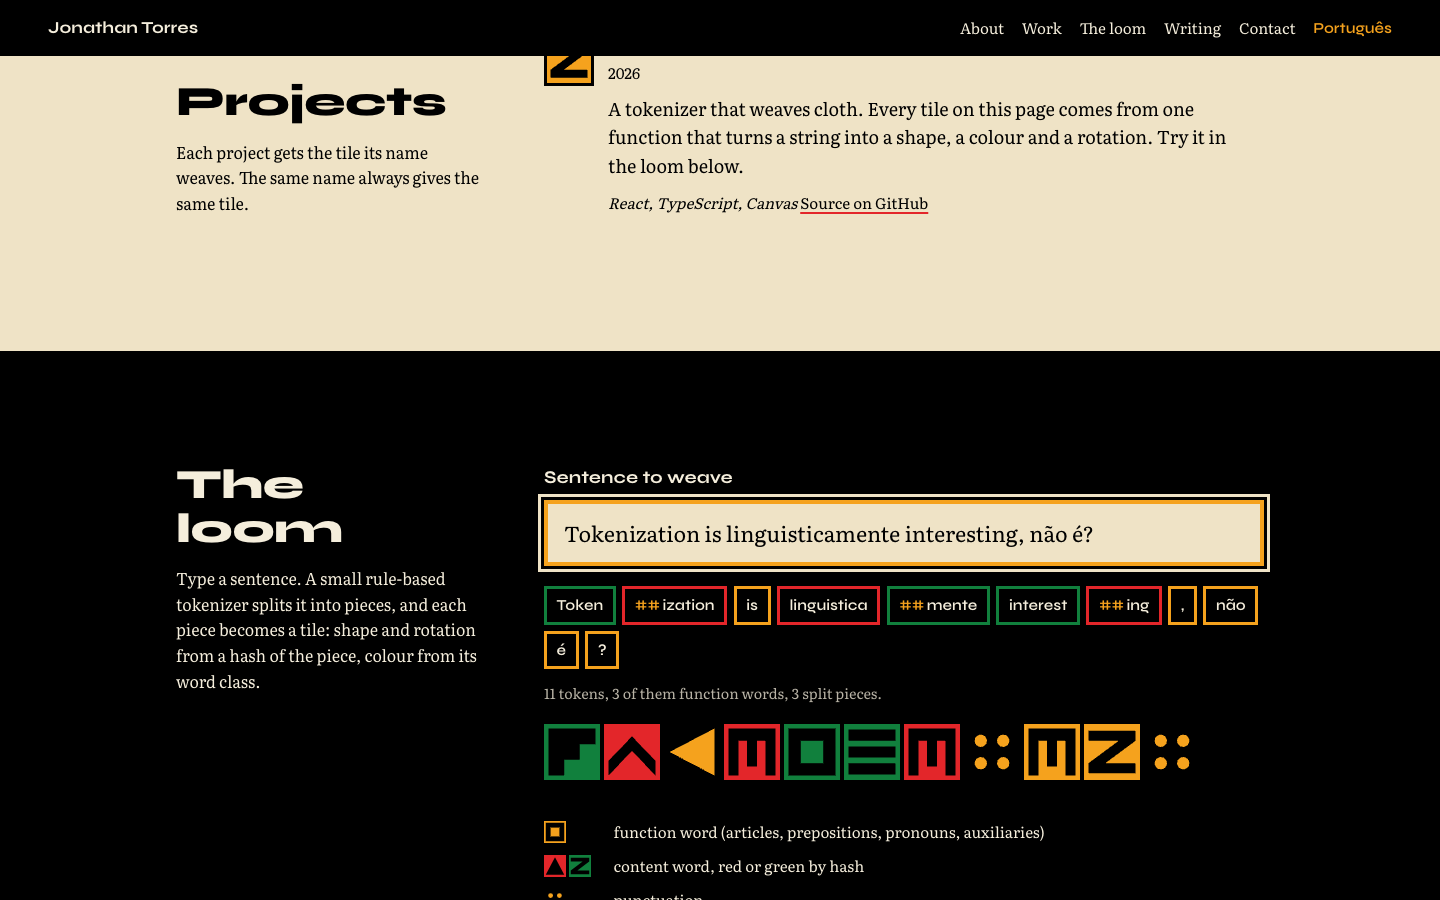
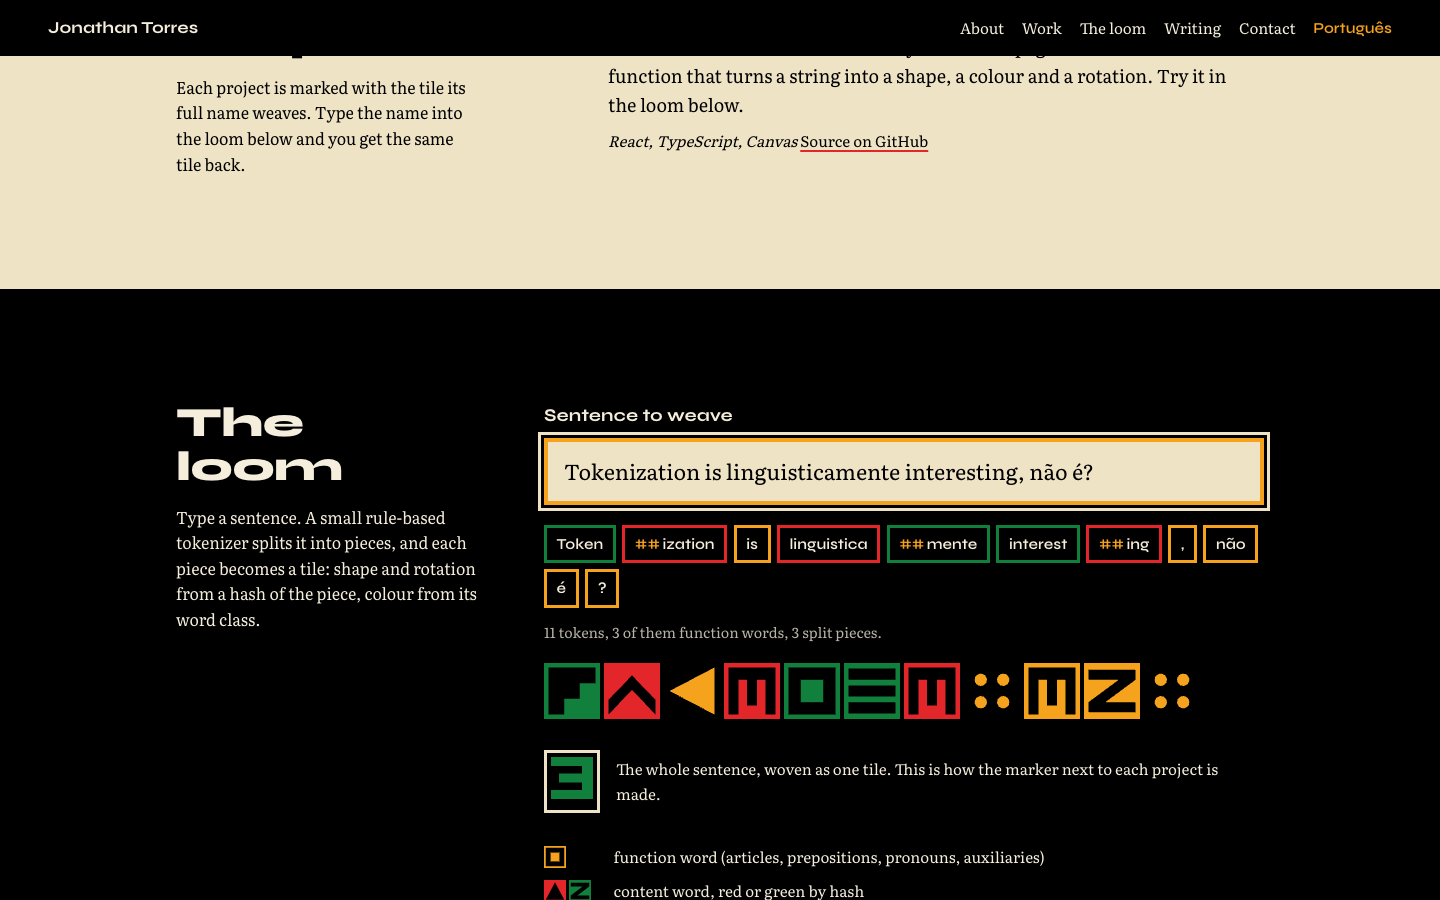
fix: review round one
- Photo: keep the PNG's transparency and frame it as a circle instead of a
  square with white corners.
- Strip: measure the row and weave enough tiles to fill any width.
- Job markers take the chart's lane colour (red industry, green research,
  gold teaching); only the shape comes from the name.
- The loom shows the whole sentence woven as one tile, which is how project
  markers are made, so typing a project name gives its marker back.
- Copy: drop the chart caption, add the NLP concentration to the bachelor's,
  rename the Slyng project and describe it as a pipeline of AI agents,
  rewrite the "what I bring" paragraph without the announcement colon,
  add jiu-jitsu next to the cat.

diff --git a/src/content/pt.ts b/src/content/pt.ts
@@ -34,8 +34,8 @@ export const pt: Content = {
     paragraphs: [
       'Passei dez anos estudando como as pessoas querem dizer as coisas: semântica formal, pragmática e o jeito como crianças que aprendem português descobrem o que o "ou" implica. Depois fui construir os sistemas que precisam lidar com tudo isso em escala.',
       'Desde 2023 trabalho com pipelines de LLM de ponta a ponta: desenho de prompts, avaliação, monitoramento, deploy e as ferramentas de revisão humana em volta deles. Na Slyng fui o primeiro contratado e construí um pipeline de monitoramento de atendimento que cortou o custo de cada análise em 77%. Na Brick Abode construí um pipeline que escreve testes unitários para linguagens procedurais do PostgreSQL. Hoje sou linguista computacional e engenheiro de PLN na Clarice.ai.',
-      'O que eu trago que a maioria dos engenheiros não traz: consigo dizer por que a saída de um modelo está errada em termos linguísticos e transformar isso numa avaliação. O que eu trago que a maioria dos linguistas não traz: eu entrego.',
-      'Fora do expediente, cozinho. E sou supervisionado por um gato preto.',
+      'A maioria dos engenheiros não consegue dizer por que a saída de um modelo está errada em termos linguísticos, muito menos transformar isso numa avaliação. Eu consigo. A maioria dos linguistas para na teoria. Eu não paro, porque também sou engenheiro, e a análise vira produto rodando.',
+      'Fora do expediente, cozinho, treino jiu-jitsu e sou supervisionado por um gato preto que, ao contrário de mim, nunca bateu.',
     ],
     photoAlt: 'Jonathan Torres, olhando para a câmera, de barba curta.',
     languagesHeading: 'Línguas que falo',
@@ -50,7 +50,7 @@ export const pt: Content = {
   },
   work: {
     heading: 'Trabalho',
-    lead: 'Dez anos de linguística, depois engenharia. As barras mostram onde cada uma começa.',
+    lead: 'Dez anos de linguística, depois engenharia.',
     laneLabels: { industry: 'Indústria', research: 'Pesquisa', teaching: 'Ensino' },
     present: 'atual',
     roles: [
@@ -106,7 +106,7 @@ export const pt: Content = {
         lane: 'research',
         location: 'São Paulo',
         bullets: [
-          'Pesquisa em aquisição de linguagem, lógica, semântica e pragmática: como crianças adquirem implicaturas escalares em português brasileiro.',
+          'Pesquisa em aquisição de linguagem, lógica, semântica e pragmática, sobre como crianças adquirem implicaturas escalares em português brasileiro.',
           'Transcrevi e revisei mais de 100 horas de áudio, que viraram um corpus anotado de fala espontânea longitudinal.',
           'Trabalhei com dados de três grandes corpora.',
         ],
@@ -159,20 +159,20 @@ export const pt: Content = {
       { degree: 'Doutorado em linguística', school: 'Universidade de São Paulo', years: '2018–2023' },
       { degree: 'Mestrado em linguística', school: 'Universidade Federal de São Carlos', years: '2016–2018' },
       {
-        degree: 'Bacharelado em linguística',
+        degree: 'Bacharelado em linguística, ênfase em processamento de linguagem natural',
         school: 'Universidade Federal de São Carlos',
         years: '2012–2015',
       },
     ],
     projectsHeading: 'Projetos',
     projectsLead:
-      'Cada projeto recebe o azulejo que o nome dele tece. O mesmo nome sempre dá o mesmo azulejo.',
+      'Cada projeto é marcado com o azulejo que o nome completo dele tece. Digite o nome no tear, mais abaixo, e o mesmo azulejo aparece.',
     projects: [
       {
-        name: 'Avaliador de atendimentos',
+        name: 'Avaliador automático de atendimentos',
         where: 'Slyng, 2024–2026',
         summary:
-          'Um pipeline que lê transcrições de atendimento ao cliente e escreve um relatório de avaliação completo, mais um portal em que os analistas aprovam ou corrigem o resultado em poucos cliques. O cliente saiu de menos de 1% dos contatos monitorados para cinco vezes a cobertura, com a mesma equipe e 77% menos custo por avaliação.',
+          'Um pipeline com agentes de IA que lê transcrições de atendimento ao cliente e escreve um relatório de avaliação completo, mais um portal em que os analistas aprovam ou corrigem o resultado em poucos cliques. O cliente saiu de menos de 1% dos contatos monitorados para cinco vezes a cobertura, com a mesma equipe e 77% menos custo por avaliação.',
         stack: 'Python, LangChain, LangSmith, PostgreSQL, Azure',
         link: { label: 'Case publicado pela Slyng', href: LINKS.slyngCase },
       },
@@ -227,6 +227,7 @@ export const pt: Content = {
       punct: 'pontuação',
       piece: 'o final de uma palavra longa que o tokenizador separou',
     },
+    whole: 'A frase inteira, tecida num azulejo só. É assim que nasce o marcador ao lado de cada projeto.',
     note: 'Não existe nenhum modelo de linguagem por trás disto, só regras. O tokenizador separa por espaços e pontuação, corta sufixos de uma lista curta e reconhece palavras de classe fechada em português, inglês, espanhol e francês. Ele erra, o que é um retrato justo dos tokenizadores em geral.',
     count: (tokens, closed, pieces) =>
       `${tokens} tokens, ${closed} palavras funcionais, ${pieces} pedaços separados.`,

diff --git a/src/content/en.ts b/src/content/en.ts
@@ -34,8 +34,8 @@ export const en: Content = {
     paragraphs: [
       'I spent ten years studying how people mean things: formal semantics, pragmatics, and how children learning Brazilian Portuguese work out what "or" implies. Then I moved to building the systems that have to cope with all of that at scale.',
       "Since 2023 I've worked on LLM pipelines end to end: prompt design, evaluation, monitoring, deployment, and the human-in-the-loop tooling around them. At Slyng I was the first hire and built a customer-service monitoring pipeline that cut the cost of each analysis by 77%. At Brick Abode I built a pipeline that writes unit tests for PostgreSQL procedural languages. Now I'm a computational linguist and NLP engineer at Clarice.ai.",
-      "What I bring that most engineers don't: I can say why a model's output is wrong in linguistic terms, and turn that into an evaluation. What I bring that most linguists don't: I ship.",
-      "Off the clock I cook, and I'm supervised by a black cat.",
+      "Most engineers can't say why a model's output is wrong in linguistic terms, let alone turn that into an evaluation. I can. Most linguists stop at the theory. I don't, because I'm an engineer as well, and the analysis ends up as a product that runs.",
+      "Off the clock I cook, train Brazilian jiu-jitsu, and I'm supervised by a black cat who, unlike me, has never tapped.",
     ],
     photoAlt: 'Jonathan Torres, looking at the camera, with a short beard.',
     languagesHeading: 'Languages I speak',
@@ -50,7 +50,7 @@ export const en: Content = {
   },
   work: {
     heading: 'Work',
-    lead: 'Ten years of linguistics, then engineering. The bars show where each one starts.',
+    lead: 'Ten years of linguistics, then engineering.',
     laneLabels: { industry: 'Industry', research: 'Research', teaching: 'Teaching' },
     present: 'present',
     roles: [
@@ -106,7 +106,7 @@ export const en: Content = {
         lane: 'research',
         location: 'São Paulo',
         bullets: [
-          'Research on language acquisition, logic, semantics and pragmatics: how children acquire scalar implicatures in Brazilian Portuguese.',
+          'Research on language acquisition, logic, semantics and pragmatics, on how children acquire scalar implicatures in Brazilian Portuguese.',
           'Transcribed and proofread more than 100 hours of audio into an annotated corpus of spontaneous longitudinal speech.',
           'Worked with data from three large corpora.',
         ],
@@ -159,19 +159,20 @@ export const en: Content = {
       { degree: 'PhD in Linguistics', school: 'Universidade de São Paulo', years: '2018–2023' },
       { degree: "Master's in Linguistics", school: 'Universidade Federal de São Carlos', years: '2016–2018' },
       {
-        degree: "Bachelor's in Linguistics",
+        degree: "Bachelor's in Linguistics, concentration in natural language processing",
         school: 'Universidade Federal de São Carlos',
         years: '2012–2015',
       },
     ],
     projectsHeading: 'Projects',
-    projectsLead: 'Each project gets the tile its name weaves. The same name always gives the same tile.',
+    projectsLead:
+      'Each project is marked with the tile its full name weaves. Type the name into the loom below and you get the same tile back.',
     projects: [
       {
-        name: 'Support-call grader',
+        name: 'Automated support-call grader',
         where: 'Slyng, 2024–2026',
         summary:
-          'A pipeline that reads customer-support transcripts and writes a complete evaluation report, plus a review portal where analysts approve or fix the result in a few clicks. The client went from monitoring under 1% of contacts to five times the coverage with the same team, at 77% less per evaluation.',
+          'A pipeline of AI agents that reads customer-support transcripts and writes a complete evaluation report, plus a review portal where analysts approve or fix the result in a few clicks. The client went from monitoring under 1% of contacts to five times the coverage with the same team, at 77% less per evaluation.',
         stack: 'Python, LangChain, LangSmith, PostgreSQL, Azure',
         link: { label: "Case study on Slyng's site (in Portuguese)", href: LINKS.slyngCase },
       },
@@ -226,6 +227,7 @@ export const en: Content = {
       punct: 'punctuation',
       piece: 'the tail of a long word the tokenizer split off',
     },
+    whole: 'The whole sentence, woven as one tile. This is how the marker next to each project is made.',
     note: 'There is no model behind this. It uses whitespace, punctuation, a suffix list and a list of closed-class words in Portuguese, English, Spanish and French. It gets things wrong, which is a fair picture of tokenizers in general.',
     count: (tokens, closed, pieces) =>
       `${tokens} tokens, ${closed} of them function words, ${pieces} split pieces.`,

diff --git a/src/components/Strip.tsx b/src/components/Strip.tsx
@@ -1,3 +1,4 @@
+import { useEffect, useRef, useState } from 'react'
 import { tileForToken } from '../lib/tiles'
 import { tokenize } from '../lib/tokenize'
 import { Tile } from './Tile'
@@ -5,19 +6,36 @@ import { Tile } from './Tile'
 interface Props {
   /** The strip is woven from this text, repeated to fill the row. */
   text: string
-  count?: number
 }
 
-/** A narrow woven band, used where two sections of the page are sewn together. */
-export function Strip({ text, count = 64 }: Props) {
+const TILE = 22
+const GAP = 4
+const DEFAULT_COUNT = 64
+
+/** A narrow woven band, used where two sections of the page are sewn together. Fills whatever width it gets. */
+export function Strip({ text }: Props) {
+  const ref = useRef<HTMLDivElement>(null)
+  const [count, setCount] = useState(DEFAULT_COUNT)
   const tokens = tokenize(text)
+
+  useEffect(() => {
+    const el = ref.current
+    if (!el) return
+    const ro = new ResizeObserver(([entry]) => {
+      const needed = Math.ceil(entry.contentRect.width / (TILE + GAP)) + 1
+      setCount((c) => (needed > c ? needed : c))
+    })
+    ro.observe(el)
+    return () => ro.disconnect()
+  }, [])
+
   if (tokens.length === 0) return null
   const tiles = Array.from({ length: count }, (_, i) => {
     const tile = tileForToken(tokens[i % tokens.length])
     return { ...tile, rotation: ((tile.rotation + Math.floor(i / tokens.length)) & 3) as 0 | 1 | 2 | 3 }
   })
   return (
-    <div className="strip" aria-hidden="true">
+    <div className="strip" aria-hidden="true" ref={ref}>
       {tiles.map((t, i) => (
         <Tile key={i} tile={t} size="100%" className="strip__tile" />
       ))}

diff --git a/src/components/Work.tsx b/src/components/Work.tsx
@@ -1,9 +1,12 @@
-import type { Content, Role } from '../content'
-import { tileFor } from '../lib/tiles'
+import type { Content, Lane, Role } from '../content'
+import { COLORS, tileFor, type Hue } from '../lib/tiles'
 import { Tile } from './Tile'
 import { Timeline } from './Timeline'
 
 const year = (ym: string) => ym.slice(0, 4)
+
+/** Job markers take the lane colour used in the chart; only the shape comes from the name. */
+const LANE_HUE: Record<Lane, Hue> = { industry: COLORS.red, research: COLORS.green, teaching: COLORS.gold }
 
 function range(r: Role, present: string) {
   const a = year(r.start)
@@ -29,7 +32,7 @@ export function Work({ c }: { c: Content }) {
                 <span className="role__when">{range(r, c.work.present)}</span>
                 <div className="role__body">
                   <h3 className="role__org">
-                    <Tile tile={tileFor(r.org)} size={26} className="marker" />
+                    <Tile tile={tileFor(r.org, LANE_HUE[r.lane])} size={26} className="marker" />
                     {r.org}
                   </h3>
                   <p className="role__title">

diff --git a/src/styles/global.css b/src/styles/global.css
@@ -328,12 +328,14 @@ a:hover {
   width: 100%;
   aspect-ratio: 1;
   object-fit: cover;
+  border-radius: 50%;
   border: calc(var(--grout) * 2) solid var(--black);
+  background: var(--cotton);
 }
 .portrait__tile {
   position: absolute;
-  right: -10px;
-  bottom: -10px;
+  right: 2%;
+  bottom: 2%;
   border: var(--grout) solid var(--black);
   background: var(--black);
 }
@@ -617,6 +619,19 @@ a:hover {
   outline-offset: 2px;
   position: relative;
   z-index: 1;
+}
+.whole {
+  margin-top: 1.5rem;
+  display: flex;
+  align-items: center;
+  gap: 1rem;
+  font-size: 0.95rem;
+}
+.whole__tile {
+  flex: 0 0 auto;
+  width: clamp(40px, 7vw, 56px);
+  aspect-ratio: 1;
+  border: 3px solid var(--cotton);
 }
 .legend {
   margin: 2rem 0 0;

diff --git a/src/components/Loom.tsx b/src/components/Loom.tsx
@@ -1,6 +1,6 @@
 import { useId, useMemo, useState } from 'react'
 import type { Content } from '../content'
-import { COLORS, tileForToken } from '../lib/tiles'
+import { COLORS, tileFor, tileForToken } from '../lib/tiles'
 import { tokenize } from '../lib/tokenize'
 import { Tile } from './Tile'
 
@@ -67,6 +67,12 @@ export function Loom({ c }: { c: Content }) {
               </span>
             ))}
           </div>
+          <p className="whole">
+            <span className="whole__tile" aria-hidden="true">
+              <Tile tile={tileFor(text.trim())} size="100%" />
+            </span>
+            <span>{c.loom.whole}</span>
+          </p>
           <dl className="legend">
             <div>
               <dt>

diff --git a/src/lib/tiles.ts b/src/lib/tiles.ts
@@ -65,10 +65,10 @@ function weave(h: number, hue: Hue, glyphCount = GLYPHS.length): Tile {
     : { glyph, rotation, fill: hue, ink: COLORS.black }
 }
 
-/** The same text always weaves the same tile. */
-export function tileFor(text: string): Tile {
+/** The same text always weaves the same tile. Pass a hue to fix the colour and keep only the shape from the text. */
+export function tileFor(text: string, hue?: Hue): Tile {
   const h = fnv1a(text.toLowerCase())
-  return weave(h, HUES[(h >>> 12) % HUES.length])
+  return weave(h, hue ?? HUES[(h >>> 12) % HUES.length])
 }
 
 /** Colour is data: gold for closed-class words, black for punctuation, red or green for the rest. */

diff --git a/src/lib/tiles.test.ts b/src/lib/tiles.test.ts
@@ -24,6 +24,14 @@ describe('tileFor', () => {
     expect([COLORS.red, COLORS.green, COLORS.gold, COLORS.black]).toContain(t.ink)
     expect(t.fill).not.toBe(t.ink)
   })
+  it('keeps the shape but takes the given hue when one is passed', () => {
+    const free = tileFor('Clarice.ai')
+    const fixed = tileFor('Clarice.ai', COLORS.red)
+    expect(fixed.glyph).toBe(free.glyph)
+    expect(fixed.rotation).toBe(free.rotation)
+    expect([fixed.fill, fixed.ink]).toContain(COLORS.red)
+    expect([fixed.fill, fixed.ink]).toContain(COLORS.black)
+  })
   it('spreads different words across different tiles', () => {
     const words = [
       'a',

diff --git a/src/content/types.ts b/src/content/types.ts
@@ -68,6 +68,7 @@ export interface Content {
     inputLabel: string
     defaultText: string
     legend: { function: string; content: string; punct: string; piece: string }
+    whole: string
     note: string
     count: (tokens: number, closed: number, pieces: number) => string
   }
